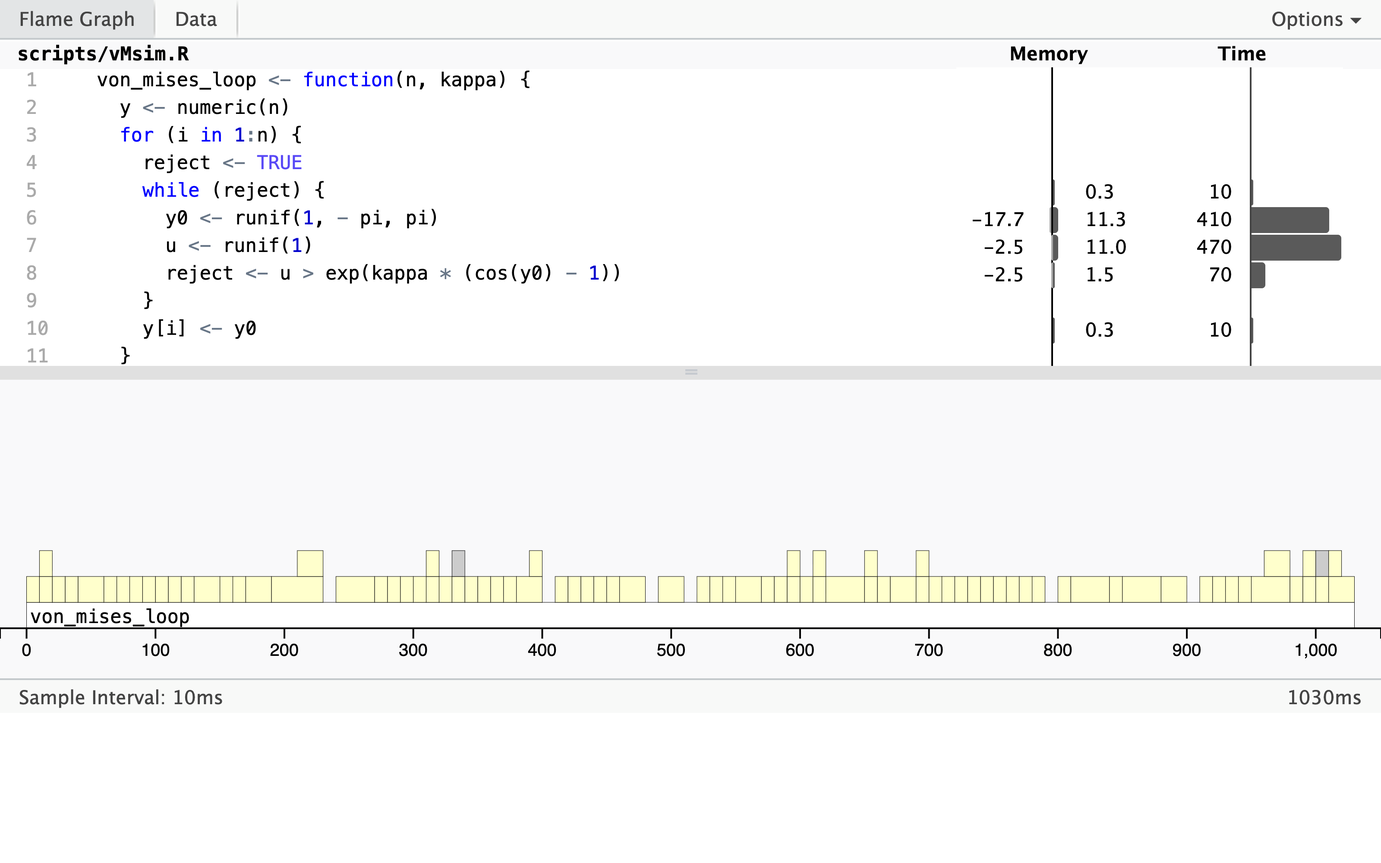
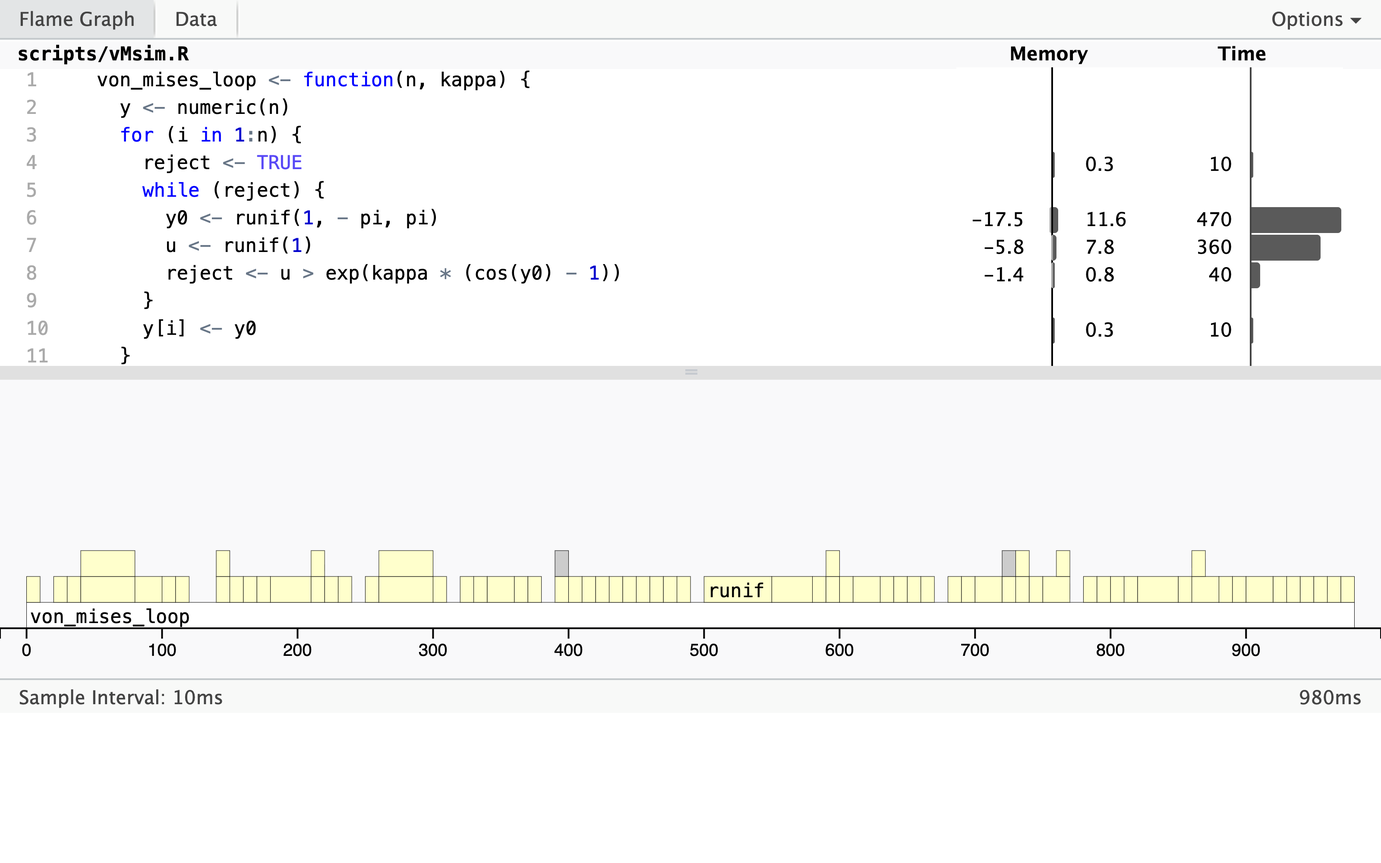
Rerun of profiling results for von Mises

diff --git a/figures/vMsim_profile.html b/figures/vMsim_profile.html
@@ -4629,9 +4629,9 @@ contains:[{begin:/\\./}]}]}}})();hljs.registerLanguage("r",e)})();</script>
 </head>
 <body style="background-color: white;">
 <div id="htmlwidget_container">
-  <div class="profvis html-widget html-fill-item" id="htmlwidget-f214a7429993f2db4890" style="width:960px;height:500px;"></div>
+  <div class="profvis html-widget html-fill-item" id="htmlwidget-50484b593182fa892323" style="width:960px;height:500px;"></div>
 </div>
-<script type="application/json" data-for="htmlwidget-f214a7429993f2db4890">{"x":{"message":{"prof":{"time":[1,1,2,2,2,3,3,4,4,5,5,6,6,7,7,8,8,9,9,10,10,11,11,12,12,13,13,14,14,15,15,16,16,17,17,18,18,19,19,20,20,21,21,22,22,22,23,23,23,24,25,25,26,27,27,28,28,29,29,30,30,31,31,32,32,32,33,33,34,34,34,35,35,36,36,37,37,38,38,39,39,40,40,40,41,42,42,43,43,44,44,45,45,46,46,47,47,48,48,49,50,50,51,51,52,53,53,54,54,55,55,56,56,57,57,58,58,59,59,60,60,60,61,61,62,62,62,63,63,64,64,65,65,66,66,66,67,67,68,68,69,69,70,70,70,71,71,72,72,73,73,74,74,75,75,76,76,77,77,78,78,79,79,80,81,81,82,82,83,83,84,84,85,85,86,86,87,87,88,88,89,89,90,90,91,92,92,93,93,94,94,95,95,96,96,97,97,97,98,98,98,99,99,100,100,100,101,101,101,102,102,102,103,103],"depth":[2,1,3,2,1,2,1,2,1,2,1,2,1,2,1,2,1,2,1,2,1,2,1,2,1,2,1,2,1,2,1,2,1,2,1,2,1,2,1,2,1,2,1,3,2,1,3,2,1,1,2,1,1,2,1,2,1,2,1,2,1,2,1,3,2,1,2,1,3,2,1,2,1,2,1,2,1,2,1,2,1,3,2,1,1,2,1,2,1,2,1,2,1,2,1,2,1,2,1,1,2,1,2,1,1,2,1,2,1,2,1,2,1,2,1,2,1,2,1,3,2,1,2,1,3,2,1,2,1,2,1,2,1,3,2,1,2,1,2,1,2,1,3,2,1,2,1,2,1,2,1,2,1,2,1,2,1,2,1,2,1,2,1,1,2,1,2,1,2,1,2,1,2,1,2,1,2,1,2,1,2,1,2,1,1,2,1,2,1,2,1,2,1,2,1,3,2,1,3,2,1,2,1,3,2,1,3,2,1,3,2,1,2,1],"label":["y0 <- runif(1, - pi, pi)","von_mises_loop","y0 <- runif(1, - pi, pi)","runif","von_mises_loop","u <- runif(1)","von_mises_loop","runif","von_mises_loop","u <- runif(1)","von_mises_loop","u <- runif(1)","von_mises_loop","runif","von_mises_loop","u <- runif(1)","von_mises_loop","runif","von_mises_loop","runif","von_mises_loop","reject <- u > exp(kappa * (cos(y0) - 1))","von_mises_loop","runif","von_mises_loop","runif","von_mises_loop","u <- runif(1)","von_mises_loop","u <- runif(1)","von_mises_loop","runif","von_mises_loop","u <- runif(1)","von_mises_loop","y0 <- runif(1, - pi, pi)","von_mises_loop","y0 <- runif(1, - pi, pi)","von_mises_loop","runif","von_mises_loop","runif","von_mises_loop","y0 <- runif(1, - pi, pi)","runif","von_mises_loop","y0 <- runif(1, - pi, pi)","runif","von_mises_loop","von_mises_loop","runif","von_mises_loop","von_mises_loop","runif","von_mises_loop","u <- runif(1)","von_mises_loop","reject <- u > exp(kappa * (cos(y0) - 1))","von_mises_loop","u <- runif(1)","von_mises_loop","reject <- u > exp(kappa * (cos(y0) - 1))","von_mises_loop","y0 <- runif(1, - pi, pi)","runif","von_mises_loop","runif","von_mises_loop","<GC>","y0 <- runif(1, - pi, pi)","von_mises_loop","runif","von_mises_loop","runif","von_mises_loop","u <- runif(1)","von_mises_loop","runif","von_mises_loop","runif","von_mises_loop","y0 <- runif(1, - pi, pi)","runif","von_mises_loop","von_mises_loop","runif","von_mises_loop","while (reject) {","von_mises_loop","runif","von_mises_loop","reject <- u > exp(kappa * (cos(y0) - 1))","von_mises_loop","runif","von_mises_loop","runif","von_mises_loop","runif","von_mises_loop","von_mises_loop","runif","von_mises_loop","runif","von_mises_loop","von_mises_loop","y0 <- runif(1, - pi, pi)","von_mises_loop","runif","von_mises_loop","u <- runif(1)","von_mises_loop","y0 <- runif(1, - pi, pi)","von_mises_loop","y0 <- runif(1, - pi, pi)","von_mises_loop","reject <- u > exp(kappa * (cos(y0) - 1))","von_mises_loop","runif","von_mises_loop","y0 <- runif(1, - pi, pi)","runif","von_mises_loop","u <- runif(1)","von_mises_loop","y0 <- runif(1, - pi, pi)","runif","von_mises_loop","runif","von_mises_loop","runif","von_mises_loop","runif","von_mises_loop","y0 <- runif(1, - pi, pi)","runif","von_mises_loop","y0 <- runif(1, - pi, pi)","von_mises_loop","runif","von_mises_loop","runif","von_mises_loop","y0 <- runif(1, - pi, pi)","runif","von_mises_loop","y0 <- runif(1, - pi, pi)","von_mises_loop","reject <- u > exp(kappa * (cos(y0) - 1))","von_mises_loop","runif","von_mises_loop","u <- runif(1)","von_mises_loop","runif","von_mises_loop","y0 <- runif(1, - pi, pi)","von_mises_loop","runif","von_mises_loop","runif","von_mises_loop","y0 <- runif(1, - pi, pi)","von_mises_loop","von_mises_loop","u <- runif(1)","von_mises_loop","runif","von_mises_loop","runif","von_mises_loop","runif","von_mises_loop","u <- runif(1)","von_mises_loop","runif","von_mises_loop","runif","von_mises_loop","runif","von_mises_loop","runif","von_mises_loop","runif","von_mises_loop","von_mises_loop","y0 <- runif(1, - pi, pi)","von_mises_loop","y[i] <- y0","von_mises_loop","y0 <- runif(1, - pi, pi)","von_mises_loop","reject <- u > exp(kappa * (cos(y0) - 1))","von_mises_loop","runif","von_mises_loop","y0 <- runif(1, - pi, pi)","runif","von_mises_loop","y0 <- runif(1, - pi, pi)","runif","von_mises_loop","u <- runif(1)","von_mises_loop","y0 <- runif(1, - pi, pi)","runif","von_mises_loop","<GC>","y0 <- runif(1, - pi, pi)","von_mises_loop","y0 <- runif(1, - pi, pi)","runif","von_mises_loop","runif","von_mises_loop"],"filenum":[1,null,1,1,null,1,null,1,null,1,null,1,null,1,null,1,null,1,null,1,null,1,null,1,null,1,null,1,null,1,null,1,null,1,null,1,null,1,null,1,null,1,null,1,1,null,1,1,null,null,1,null,null,1,null,1,null,1,null,1,null,1,null,1,1,null,1,null,null,1,null,1,null,1,null,1,null,1,null,1,null,1,1,null,null,1,null,1,null,1,null,1,null,1,null,1,null,1,null,null,1,null,1,null,null,1,null,1,null,1,null,1,null,1,null,1,null,1,null,1,1,null,1,null,1,1,null,1,null,1,null,1,null,1,1,null,1,null,1,null,1,null,1,1,null,1,null,1,null,1,null,1,null,1,null,1,null,1,null,1,null,1,null,null,1,null,1,null,1,null,1,null,1,null,1,null,1,null,1,null,1,null,1,null,null,1,null,1,null,1,null,1,null,1,null,1,1,null,1,1,null,1,null,1,1,null,null,1,null,1,1,null,1,null],"linenum":[6,null,6,6,null,7,null,6,null,7,null,7,null,7,null,7,null,7,null,6,null,8,null,6,null,7,null,7,null,7,null,7,null,7,null,6,null,6,null,6,null,6,null,6,6,null,6,6,null,null,7,null,null,7,null,7,null,8,null,7,null,8,null,6,6,null,7,null,null,6,null,6,null,7,null,7,null,7,null,6,null,6,6,null,null,7,null,5,null,7,null,8,null,7,null,6,null,6,null,null,7,null,7,null,null,6,null,7,null,7,null,6,null,6,null,8,null,7,null,6,6,null,7,null,6,6,null,7,null,7,null,7,null,6,6,null,6,null,7,null,7,null,6,6,null,6,null,8,null,7,null,7,null,7,null,6,null,7,null,6,null,6,null,null,7,null,7,null,7,null,7,null,7,null,7,null,7,null,7,null,6,null,6,null,null,6,null,10,null,6,null,8,null,6,null,6,6,null,6,6,null,7,null,6,6,null,null,6,null,6,6,null,6,null],"memalloc":[55.92893218994141,55.92893218994141,56.18175506591797,56.18175506591797,56.18175506591797,56.43573760986328,56.43573760986328,56.68950653076172,56.68950653076172,56.9417724609375,56.9417724609375,57.18967437744141,57.18967437744141,57.41778564453125,57.41778564453125,57.65174102783203,57.65174102783203,57.88446807861328,57.88446807861328,58.12354278564453,58.12354278564453,58.35741424560547,58.35741424560547,55.84796905517578,55.84796905517578,56.10325622558594,56.10325622558594,56.35488891601562,56.35488891601562,56.61112213134766,56.61112213134766,56.86063385009766,56.86063385009766,57.10964965820312,57.10964965820312,57.35007476806641,57.35007476806641,57.59177398681641,57.59177398681641,57.82823181152344,57.82823181152344,58.06496429443359,58.06496429443359,58.30950164794922,58.30950164794922,58.30950164794922,55.66587066650391,55.66587066650391,55.66587066650391,55.91329193115234,56.15999603271484,56.15999603271484,56.41574859619141,56.67202758789062,56.67202758789062,56.92285919189453,56.92285919189453,57.17674255371094,57.17674255371094,57.43335723876953,57.43335723876953,57.67488098144531,57.67488098144531,57.91216278076172,57.91216278076172,57.91216278076172,58.15019989013672,58.15019989013672,58.35326385498047,58.35326385498047,58.35326385498047,55.87579345703125,55.87579345703125,56.11637115478516,56.11637115478516,56.28899383544922,56.28899383544922,56.41146850585938,56.41146850585938,56.51240539550781,56.51240539550781,56.72984313964844,56.72984313964844,56.72984313964844,56.97866058349609,57.22353363037109,57.22353363037109,57.47714233398438,57.47714233398438,57.73009490966797,57.73009490966797,57.96866607666016,57.96866607666016,58.19445037841797,58.19445037841797,55.68437194824219,55.68437194824219,55.93550872802734,55.93550872802734,56.19658660888672,56.4505615234375,56.4505615234375,56.68621063232422,56.68621063232422,56.93736267089844,57.19161224365234,57.19161224365234,57.44923400878906,57.44923400878906,57.70349884033203,57.70349884033203,57.9564208984375,57.9564208984375,58.20771026611328,58.20771026611328,55.71805572509766,55.71805572509766,55.97996520996094,55.97996520996094,56.24430084228516,56.24430084228516,56.24430084228516,56.50501251220703,56.50501251220703,56.76383972167969,56.76383972167969,56.76383972167969,57.02410125732422,57.02410125732422,57.26796722412109,57.26796722412109,57.52374267578125,57.52374267578125,57.77620697021484,57.77620697021484,57.77620697021484,58.03141021728516,58.03141021728516,58.28622436523438,58.28622436523438,55.80707550048828,55.80707550048828,56.05315399169922,56.05315399169922,56.05315399169922,56.28334045410156,56.28334045410156,56.53261566162109,56.53261566162109,56.79003143310547,56.79003143310547,57.03745269775391,57.03745269775391,57.28529357910156,57.28529357910156,57.53253173828125,57.53253173828125,57.76683044433594,57.76683044433594,58.01171112060547,58.01171112060547,58.26035308837891,58.26035308837891,55.76367950439453,56.01437377929688,56.01437377929688,56.26646423339844,56.26646423339844,56.518310546875,56.518310546875,56.76803588867188,56.76803588867188,57.02550506591797,57.02550506591797,57.27608489990234,57.27608489990234,57.53399658203125,57.53399658203125,57.78948974609375,57.78948974609375,58.03961944580078,58.03961944580078,58.29756927490234,58.29756927490234,55.80910491943359,56.0665283203125,56.0665283203125,56.32161712646484,56.32161712646484,56.57769012451172,56.57769012451172,56.82847595214844,56.82847595214844,57.08695220947266,57.08695220947266,57.33993530273438,57.33993530273438,57.33993530273438,57.5987548828125,57.5987548828125,57.5987548828125,57.85129547119141,57.85129547119141,58.10536193847656,58.10536193847656,58.10536193847656,58.35330963134766,58.35330963134766,58.35330963134766,55.87691497802734,55.87691497802734,55.87691497802734,56.13877868652344,56.13877868652344],"meminc":[0,0,0.2528228759765625,0,0,0.2539825439453125,0,0.2537689208984375,0,0.2522659301757812,0,0.2479019165039062,0,0.2281112670898438,0,0.2339553833007812,0,0.23272705078125,0,0.23907470703125,0,0.2338714599609375,0,-2.509445190429688,0,0.2552871704101562,0,0.2516326904296875,0,0.2562332153320312,0,0.24951171875,0,0.2490158081054688,0,0.2404251098632812,0,0.24169921875,0,0.2364578247070312,0,0.2367324829101562,0,0.244537353515625,0,0,-2.643630981445312,0,0,0.2474212646484375,0.2467041015625,0,0.2557525634765625,0.2562789916992188,0,0.2508316040039062,0,0.2538833618164062,0,0.2566146850585938,0,0.2415237426757812,0,0.2372817993164062,0,0,0.238037109375,0,0.20306396484375,0,0,-2.477470397949219,0,0.2405776977539062,0,0.1726226806640625,0,0.1224746704101562,0,0.1009368896484375,0,0.217437744140625,0,0,0.2488174438476562,0.244873046875,0,0.2536087036132812,0,0.2529525756835938,0,0.2385711669921875,0,0.2257843017578125,0,-2.510078430175781,0,0.2511367797851562,0,0.261077880859375,0.2539749145507812,0,0.2356491088867188,0,0.2511520385742188,0.2542495727539062,0,0.2576217651367188,0,0.2542648315429688,0,0.2529220581054688,0,0.2512893676757812,0,-2.489654541015625,0,0.2619094848632812,0,0.2643356323242188,0,0,0.260711669921875,0,0.2588272094726562,0,0,0.2602615356445312,0,0.243865966796875,0,0.2557754516601562,0,0.2524642944335938,0,0,0.2552032470703125,0,0.2548141479492188,0,-2.479148864746094,0,0.2460784912109375,0,0,0.2301864624023438,0,0.2492752075195312,0,0.257415771484375,0,0.2474212646484375,0,0.2478408813476562,0,0.2472381591796875,0,0.2342987060546875,0,0.2448806762695312,0,0.2486419677734375,0,-2.496673583984375,0.2506942749023438,0,0.2520904541015625,0,0.2518463134765625,0,0.249725341796875,0,0.2574691772460938,0,0.250579833984375,0,0.2579116821289062,0,0.2554931640625,0,0.2501296997070312,0,0.2579498291015625,0,-2.48846435546875,0.2574234008789062,0,0.2550888061523438,0,0.256072998046875,0,0.2507858276367188,0,0.2584762573242188,0,0.2529830932617188,0,0,0.258819580078125,0,0,0.2525405883789062,0,0.2540664672851562,0,0,0.2479476928710938,0,0,-2.476394653320312,0,0,0.2618637084960938,0],"filename":["scripts/vMsim.R",null,"scripts/vMsim.R","scripts/vMsim.R",null,"scripts/vMsim.R",null,"scripts/vMsim.R",null,"scripts/vMsim.R",null,"scripts/vMsim.R",null,"scripts/vMsim.R",null,"scripts/vMsim.R",null,"scripts/vMsim.R",null,"scripts/vMsim.R",null,"scripts/vMsim.R",null,"scripts/vMsim.R",null,"scripts/vMsim.R",null,"scripts/vMsim.R",null,"scripts/vMsim.R",null,"scripts/vMsim.R",null,"scripts/vMsim.R",null,"scripts/vMsim.R",null,"scripts/vMsim.R",null,"scripts/vMsim.R",null,"scripts/vMsim.R",null,"scripts/vMsim.R","scripts/vMsim.R",null,"scripts/vMsim.R","scripts/vMsim.R",null,null,"scripts/vMsim.R",null,null,"scripts/vMsim.R",null,"scripts/vMsim.R",null,"scripts/vMsim.R",null,"scripts/vMsim.R",null,"scripts/vMsim.R",null,"scripts/vMsim.R","scripts/vMsim.R",null,"scripts/vMsim.R",null,null,"scripts/vMsim.R",null,"scripts/vMsim.R",null,"scripts/vMsim.R",null,"scripts/vMsim.R",null,"scripts/vMsim.R",null,"scripts/vMsim.R",null,"scripts/vMsim.R","scripts/vMsim.R",null,null,"scripts/vMsim.R",null,"scripts/vMsim.R",null,"scripts/vMsim.R",null,"scripts/vMsim.R",null,"scripts/vMsim.R",null,"scripts/vMsim.R",null,"scripts/vMsim.R",null,null,"scripts/vMsim.R",null,"scripts/vMsim.R",null,null,"scripts/vMsim.R",null,"scripts/vMsim.R",null,"scripts/vMsim.R",null,"scripts/vMsim.R",null,"scripts/vMsim.R",null,"scripts/vMsim.R",null,"scripts/vMsim.R",null,"scripts/vMsim.R","scripts/vMsim.R",null,"scripts/vMsim.R",null,"scripts/vMsim.R","scripts/vMsim.R",null,"scripts/vMsim.R",null,"scripts/vMsim.R",null,"scripts/vMsim.R",null,"scripts/vMsim.R","scripts/vMsim.R",null,"scripts/vMsim.R",null,"scripts/vMsim.R",null,"scripts/vMsim.R",null,"scripts/vMsim.R","scripts/vMsim.R",null,"scripts/vMsim.R",null,"scripts/vMsim.R",null,"scripts/vMsim.R",null,"scripts/vMsim.R",null,"scripts/vMsim.R",null,"scripts/vMsim.R",null,"scripts/vMsim.R",null,"scripts/vMsim.R",null,"scripts/vMsim.R",null,null,"scripts/vMsim.R",null,"scripts/vMsim.R",null,"scripts/vMsim.R",null,"scripts/vMsim.R",null,"scripts/vMsim.R",null,"scripts/vMsim.R",null,"scripts/vMsim.R",null,"scripts/vMsim.R",null,"scripts/vMsim.R",null,"scripts/vMsim.R",null,null,"scripts/vMsim.R",null,"scripts/vMsim.R",null,"scripts/vMsim.R",null,"scripts/vMsim.R",null,"scripts/vMsim.R",null,"scripts/vMsim.R","scripts/vMsim.R",null,"scripts/vMsim.R","scripts/vMsim.R",null,"scripts/vMsim.R",null,"scripts/vMsim.R","scripts/vMsim.R",null,null,"scripts/vMsim.R",null,"scripts/vMsim.R","scripts/vMsim.R",null,"scripts/vMsim.R",null]},"interval":10,"files":[{"filename":"scripts/vMsim.R","content":"von_mises_loop <- function(n, kappa) {\n  y <- numeric(n)\n  for (i in 1:n) {\n    reject <- TRUE\n    while (reject) {\n      y0 <- runif(1, - pi, pi)\n      u <- runif(1)\n      reject <- u > exp(kappa * (cos(y0) - 1))\n    }\n    y[i] <- y0\n  }\n  y\n}","normpath":"/Users/xqz683/sync/Books/CSwR/scripts/vMsim.R"}],"prof_output":"/var/folders/66/tltr1k410b1f6l8k6kdbq11w0000gn/T//RtmphVgOZZ/file1ac55489b386.prof","highlight":{"output":["^output\\$"],"gc":["^<GC>$"],"stacktrace":["^\\.\\.stacktraceo(n|ff)\\.\\.$"]},"split":"h"}},"evals":[],"jsHooks":[]}</script>
-<script type="application/htmlwidget-sizing" data-for="htmlwidget-f214a7429993f2db4890">{"viewer":{"width":450,"height":350,"padding":0,"fill":true},"browser":{"width":960,"height":500,"padding":0,"fill":true}}</script>
+<script type="application/json" data-for="htmlwidget-50484b593182fa892323">{"x":{"message":{"prof":{"time":[1,1,2,3,3,4,4,5,5,5,6,6,7,7,8,8,8,9,9,10,10,11,11,12,12,13,14,15,15,15,16,16,17,17,18,18,19,19,20,20,21,21,22,22,22,23,23,24,24,25,26,26,27,27,27,28,28,29,29,29,30,30,30,31,31,32,33,33,34,34,35,35,36,36,37,37,38,38,39,40,40,40,41,41,42,42,43,43,44,44,45,45,46,46,47,47,48,48,49,49,50,51,51,52,52,53,54,54,55,55,56,56,57,57,58,58,59,59,60,60,60,61,61,62,62,63,63,64,64,65,65,66,66,67,67,68,69,69,70,70,71,71,72,72,73,73,73,74,74,74,75,75,76,76,77,77,77,78,79,79,80,80,81,81,82,82,83,83,84,85,85,86,86,87,87,87,88,88,89,89,90,90,91,91,92,92,93,93,94,94,95,95,96,96,97,97,98,98],"depth":[2,1,1,2,1,2,1,3,2,1,2,1,2,1,3,2,1,2,1,2,1,2,1,2,1,1,1,3,2,1,2,1,2,1,2,1,2,1,2,1,2,1,3,2,1,2,1,2,1,1,2,1,3,2,1,2,1,3,2,1,3,2,1,2,1,1,2,1,2,1,2,1,2,1,2,1,2,1,1,3,2,1,2,1,2,1,2,1,2,1,2,1,2,1,2,1,2,1,2,1,1,2,1,2,1,1,2,1,2,1,2,1,2,1,2,1,2,1,3,2,1,2,1,2,1,2,1,2,1,2,1,2,1,2,1,1,2,1,2,1,2,1,2,1,3,2,1,3,2,1,2,1,2,1,3,2,1,1,2,1,2,1,2,1,2,1,2,1,1,2,1,2,1,3,2,1,2,1,2,1,2,1,2,1,2,1,2,1,2,1,2,1,2,1,2,1,2,1],"label":["u <- runif(1)","von_mises_loop","von_mises_loop","runif","von_mises_loop","y0 <- runif(1, - pi, pi)","von_mises_loop","y0 <- runif(1, - pi, pi)","runif","von_mises_loop","runif","von_mises_loop","runif","von_mises_loop","y0 <- runif(1, - pi, pi)","runif","von_mises_loop","y0 <- runif(1, - pi, pi)","von_mises_loop","y0 <- runif(1, - pi, pi)","von_mises_loop","runif","von_mises_loop","u <- runif(1)","von_mises_loop","von_mises_loop","von_mises_loop","y0 <- runif(1, - pi, pi)","runif","von_mises_loop","y[i] <- y0","von_mises_loop","runif","von_mises_loop","y0 <- runif(1, - pi, pi)","von_mises_loop","runif","von_mises_loop","runif","von_mises_loop","runif","von_mises_loop","y0 <- runif(1, - pi, pi)","runif","von_mises_loop","runif","von_mises_loop","runif","von_mises_loop","von_mises_loop","reject <- u > exp(kappa * (cos(y0) - 1))","von_mises_loop","y0 <- runif(1, - pi, pi)","runif","von_mises_loop","runif","von_mises_loop","y0 <- runif(1, - pi, pi)","runif","von_mises_loop","y0 <- runif(1, - pi, pi)","runif","von_mises_loop","u <- runif(1)","von_mises_loop","von_mises_loop","runif","von_mises_loop","reject <- u > exp(kappa * (cos(y0) - 1))","von_mises_loop","runif","von_mises_loop","runif","von_mises_loop","y0 <- runif(1, - pi, pi)","von_mises_loop","runif","von_mises_loop","von_mises_loop","<GC>","y0 <- runif(1, - pi, pi)","von_mises_loop","runif","von_mises_loop","runif","von_mises_loop","reject <- u > exp(kappa * (cos(y0) - 1))","von_mises_loop","runif","von_mises_loop","reject <- u > exp(kappa * (cos(y0) - 1))","von_mises_loop","runif","von_mises_loop","y0 <- runif(1, - pi, pi)","von_mises_loop","runif","von_mises_loop","runif","von_mises_loop","von_mises_loop","runif","von_mises_loop","runif","von_mises_loop","von_mises_loop","runif","von_mises_loop","runif","von_mises_loop","runif","von_mises_loop","runif","von_mises_loop","runif","von_mises_loop","u <- runif(1)","von_mises_loop","y0 <- runif(1, - pi, pi)","runif","von_mises_loop","reject <- TRUE","von_mises_loop","runif","von_mises_loop","runif","von_mises_loop","y0 <- runif(1, - pi, pi)","von_mises_loop","runif","von_mises_loop","runif","von_mises_loop","y0 <- runif(1, - pi, pi)","von_mises_loop","von_mises_loop","runif","von_mises_loop","u <- runif(1)","von_mises_loop","y0 <- runif(1, - pi, pi)","von_mises_loop","y0 <- runif(1, - pi, pi)","von_mises_loop","<GC>","u <- runif(1)","von_mises_loop","y0 <- runif(1, - pi, pi)","runif","von_mises_loop","u <- runif(1)","von_mises_loop","runif","von_mises_loop","y0 <- runif(1, - pi, pi)","runif","von_mises_loop","von_mises_loop","y0 <- runif(1, - pi, pi)","von_mises_loop","runif","von_mises_loop","u <- runif(1)","von_mises_loop","runif","von_mises_loop","runif","von_mises_loop","von_mises_loop","runif","von_mises_loop","u <- runif(1)","von_mises_loop","y0 <- runif(1, - pi, pi)","runif","von_mises_loop","runif","von_mises_loop","u <- runif(1)","von_mises_loop","runif","von_mises_loop","y0 <- runif(1, - pi, pi)","von_mises_loop","y0 <- runif(1, - pi, pi)","von_mises_loop","runif","von_mises_loop","runif","von_mises_loop","runif","von_mises_loop","runif","von_mises_loop","u <- runif(1)","von_mises_loop","y0 <- runif(1, - pi, pi)","von_mises_loop"],"filenum":[1,null,null,1,null,1,null,1,1,null,1,null,1,null,1,1,null,1,null,1,null,1,null,1,null,null,null,1,1,null,1,null,1,null,1,null,1,null,1,null,1,null,1,1,null,1,null,1,null,null,1,null,1,1,null,1,null,1,1,null,1,1,null,1,null,null,1,null,1,null,1,null,1,null,1,null,1,null,null,null,1,null,1,null,1,null,1,null,1,null,1,null,1,null,1,null,1,null,1,null,null,1,null,1,null,null,1,null,1,null,1,null,1,null,1,null,1,null,1,1,null,1,null,1,null,1,null,1,null,1,null,1,null,1,null,null,1,null,1,null,1,null,1,null,null,1,null,1,1,null,1,null,1,null,1,1,null,null,1,null,1,null,1,null,1,null,1,null,null,1,null,1,null,1,1,null,1,null,1,null,1,null,1,null,1,null,1,null,1,null,1,null,1,null,1,null,1,null],"linenum":[7,null,null,6,null,6,null,6,6,null,6,null,6,null,6,6,null,6,null,6,null,7,null,7,null,null,null,6,6,null,10,null,6,null,6,null,7,null,7,null,7,null,6,6,null,7,null,6,null,null,8,null,6,6,null,6,null,6,6,null,6,6,null,7,null,null,7,null,8,null,7,null,7,null,6,null,7,null,null,null,6,null,6,null,7,null,8,null,6,null,8,null,7,null,6,null,7,null,6,null,null,7,null,7,null,null,7,null,7,null,6,null,6,null,6,null,7,null,6,6,null,4,null,7,null,7,null,6,null,6,null,7,null,6,null,null,6,null,7,null,6,null,6,null,null,7,null,6,6,null,7,null,6,null,6,6,null,null,6,null,7,null,7,null,7,null,6,null,null,6,null,7,null,6,6,null,6,null,7,null,7,null,6,null,6,null,7,null,6,null,7,null,6,null,7,null,6,null],"memalloc":[54.90489959716797,54.90489959716797,55.16305541992188,55.40532684326172,55.40532684326172,55.66658020019531,55.66658020019531,55.91919708251953,55.91919708251953,55.91919708251953,56.18013763427734,56.18013763427734,54.64054870605469,54.64054870605469,54.90312957763672,54.90312957763672,54.90312957763672,55.170166015625,55.170166015625,55.41584777832031,55.41584777832031,55.66891479492188,55.66891479492188,55.91983795166016,55.91983795166016,56.17213439941406,54.72088623046875,54.98504638671875,54.98504638671875,54.98504638671875,55.24759674072266,55.24759674072266,55.51123809814453,55.51123809814453,55.77253723144531,55.77253723144531,56.03483581542969,56.03483581542969,56.29372406005859,56.29372406005859,54.84914398193359,54.84914398193359,55.10176086425781,55.10176086425781,55.10176086425781,55.33984375,55.33984375,55.58831024169922,55.58831024169922,55.83426666259766,56.09400939941406,56.09400939941406,54.63723754882812,54.63723754882812,54.63723754882812,54.90040588378906,54.90040588378906,55.16432952880859,55.16432952880859,55.16432952880859,55.42942047119141,55.42942047119141,55.42942047119141,55.69182586669922,55.69182586669922,55.95506286621094,56.21920013427734,56.21920013427734,54.77525329589844,54.77525329589844,55.03984069824219,55.03984069824219,55.30039978027344,55.30039978027344,55.56416320800781,55.56416320800781,55.826416015625,55.826416015625,56.07479095458984,56.29386138916016,56.29386138916016,56.29386138916016,54.83627319335938,54.83627319335938,55.09708404541016,55.09708404541016,55.35909271240234,55.35909271240234,55.61927795410156,55.61927795410156,55.84807586669922,55.84807586669922,56.09908294677734,56.09908294677734,54.64531707763672,54.64531707763672,54.91067504882812,54.91067504882812,55.17460632324219,55.17460632324219,55.43715667724609,55.69879150390625,55.69879150390625,55.95984649658203,55.95984649658203,56.22441101074219,54.77813720703125,54.77813720703125,55.04058837890625,55.04058837890625,55.30410766601562,55.30410766601562,55.56848907470703,55.56848907470703,55.82636260986328,55.82636260986328,56.09120178222656,56.09120178222656,54.64379119873047,54.64379119873047,54.64379119873047,54.90833282470703,54.90833282470703,55.17388153076172,55.17388153076172,55.43795776367188,55.43795776367188,55.67545318603516,55.67545318603516,55.90715026855469,55.90715026855469,56.16809844970703,56.16809844970703,54.72020721435547,54.72020721435547,54.98318481445312,55.24657440185547,55.24657440185547,55.50929260253906,55.50929260253906,55.77063751220703,55.77063751220703,56.03433227539062,56.03433227539062,56.29389953613281,56.29389953613281,56.29389953613281,54.85298156738281,54.85298156738281,54.85298156738281,55.11440277099609,55.11440277099609,55.37834930419922,55.37834930419922,55.64056396484375,55.64056396484375,55.64056396484375,55.90377807617188,56.16724395751953,56.16724395751953,54.72557067871094,54.72557067871094,54.98674011230469,54.98674011230469,55.25096130371094,55.25096130371094,55.51214599609375,55.51214599609375,55.75414276123047,56.01699066162109,56.01699066162109,56.28214263916016,56.28214263916016,54.84380340576172,54.84380340576172,54.84380340576172,55.09593963623047,55.09593963623047,55.35671997070312,55.35671997070312,55.62071990966797,55.62071990966797,55.88233184814453,55.88233184814453,56.14236450195312,56.14236450195312,54.70164489746094,54.70164489746094,54.96350860595703,54.96350860595703,55.22637939453125,55.22637939453125,55.48396301269531,55.48396301269531,55.74664306640625,55.74664306640625,56.00830841064453,56.00830841064453],"meminc":[0,0,0.2581558227539062,0.2422714233398438,0,0.2612533569335938,0,0.2526168823242188,0,0,0.2609405517578125,0,-1.539588928222656,0,0.2625808715820312,0,0,0.2670364379882812,0,0.2456817626953125,0,0.2530670166015625,0,0.2509231567382812,0,0.2522964477539062,-1.451248168945312,0.26416015625,0,0,0.2625503540039062,0,0.263641357421875,0,0.2612991333007812,0,0.262298583984375,0,0.2588882446289062,0,-1.444580078125,0,0.2526168823242188,0,0,0.2380828857421875,0,0.2484664916992188,0,0.2459564208984375,0.2597427368164062,0,-1.456771850585938,0,0,0.2631683349609375,0,0.2639236450195312,0,0,0.2650909423828125,0,0,0.2624053955078125,0,0.2632369995117188,0.2641372680664062,0,-1.443946838378906,0,0.26458740234375,0,0.26055908203125,0,0.263763427734375,0,0.2622528076171875,0,0.2483749389648438,0.2190704345703125,0,0,-1.457588195800781,0,0.2608108520507812,0,0.2620086669921875,0,0.2601852416992188,0,0.2287979125976562,0,0.251007080078125,0,-1.453765869140625,0,0.2653579711914062,0,0.2639312744140625,0,0.2625503540039062,0.2616348266601562,0,0.2610549926757812,0,0.2645645141601562,-1.446273803710938,0,0.262451171875,0,0.263519287109375,0,0.2643814086914062,0,0.25787353515625,0,0.2648391723632812,0,-1.447410583496094,0,0,0.2645416259765625,0,0.2655487060546875,0,0.2640762329101562,0,0.2374954223632812,0,0.2316970825195312,0,0.2609481811523438,0,-1.447891235351562,0,0.2629776000976562,0.2633895874023438,0,0.2627182006835938,0,0.2613449096679688,0,0.2636947631835938,0,0.2595672607421875,0,0,-1.44091796875,0,0,0.2614212036132812,0,0.263946533203125,0,0.2622146606445312,0,0,0.263214111328125,0.2634658813476562,0,-1.441673278808594,0,0.26116943359375,0,0.26422119140625,0,0.2611846923828125,0,0.2419967651367188,0.262847900390625,0,0.2651519775390625,0,-1.438339233398438,0,0,0.25213623046875,0,0.2607803344726562,0,0.2639999389648438,0,0.2616119384765625,0,0.2600326538085938,0,-1.440719604492188,0,0.2618637084960938,0,0.2628707885742188,0,0.2575836181640625,0,0.2626800537109375,0,0.2616653442382812,0],"filename":["scripts/vMsim.R",null,null,"scripts/vMsim.R",null,"scripts/vMsim.R",null,"scripts/vMsim.R","scripts/vMsim.R",null,"scripts/vMsim.R",null,"scripts/vMsim.R",null,"scripts/vMsim.R","scripts/vMsim.R",null,"scripts/vMsim.R",null,"scripts/vMsim.R",null,"scripts/vMsim.R",null,"scripts/vMsim.R",null,null,null,"scripts/vMsim.R","scripts/vMsim.R",null,"scripts/vMsim.R",null,"scripts/vMsim.R",null,"scripts/vMsim.R",null,"scripts/vMsim.R",null,"scripts/vMsim.R",null,"scripts/vMsim.R",null,"scripts/vMsim.R","scripts/vMsim.R",null,"scripts/vMsim.R",null,"scripts/vMsim.R",null,null,"scripts/vMsim.R",null,"scripts/vMsim.R","scripts/vMsim.R",null,"scripts/vMsim.R",null,"scripts/vMsim.R","scripts/vMsim.R",null,"scripts/vMsim.R","scripts/vMsim.R",null,"scripts/vMsim.R",null,null,"scripts/vMsim.R",null,"scripts/vMsim.R",null,"scripts/vMsim.R",null,"scripts/vMsim.R",null,"scripts/vMsim.R",null,"scripts/vMsim.R",null,null,null,"scripts/vMsim.R",null,"scripts/vMsim.R",null,"scripts/vMsim.R",null,"scripts/vMsim.R",null,"scripts/vMsim.R",null,"scripts/vMsim.R",null,"scripts/vMsim.R",null,"scripts/vMsim.R",null,"scripts/vMsim.R",null,"scripts/vMsim.R",null,null,"scripts/vMsim.R",null,"scripts/vMsim.R",null,null,"scripts/vMsim.R",null,"scripts/vMsim.R",null,"scripts/vMsim.R",null,"scripts/vMsim.R",null,"scripts/vMsim.R",null,"scripts/vMsim.R",null,"scripts/vMsim.R","scripts/vMsim.R",null,"scripts/vMsim.R",null,"scripts/vMsim.R",null,"scripts/vMsim.R",null,"scripts/vMsim.R",null,"scripts/vMsim.R",null,"scripts/vMsim.R",null,"scripts/vMsim.R",null,null,"scripts/vMsim.R",null,"scripts/vMsim.R",null,"scripts/vMsim.R",null,"scripts/vMsim.R",null,null,"scripts/vMsim.R",null,"scripts/vMsim.R","scripts/vMsim.R",null,"scripts/vMsim.R",null,"scripts/vMsim.R",null,"scripts/vMsim.R","scripts/vMsim.R",null,null,"scripts/vMsim.R",null,"scripts/vMsim.R",null,"scripts/vMsim.R",null,"scripts/vMsim.R",null,"scripts/vMsim.R",null,null,"scripts/vMsim.R",null,"scripts/vMsim.R",null,"scripts/vMsim.R","scripts/vMsim.R",null,"scripts/vMsim.R",null,"scripts/vMsim.R",null,"scripts/vMsim.R",null,"scripts/vMsim.R",null,"scripts/vMsim.R",null,"scripts/vMsim.R",null,"scripts/vMsim.R",null,"scripts/vMsim.R",null,"scripts/vMsim.R",null,"scripts/vMsim.R",null,"scripts/vMsim.R",null]},"interval":10,"files":[{"filename":"scripts/vMsim.R","content":"von_mises_loop <- function(n, kappa) {\n  y <- numeric(n)\n  for (i in 1:n) {\n    reject <- TRUE\n    while (reject) {\n      y0 <- runif(1, - pi, pi)\n      u <- runif(1)\n      reject <- u > exp(kappa * (cos(y0) - 1))\n    }\n    y[i] <- y0\n  }\n  y\n}","normpath":"/Users/xqz683/sync/Books/CSwR/scripts/vMsim.R"}],"prof_output":"/var/folders/66/tltr1k410b1f6l8k6kdbq11w0000gn/T//RtmpuaOdIZ/filec60e77acb4a1.prof","highlight":{"output":["^output\\$"],"gc":["^<GC>$"],"stacktrace":["^\\.\\.stacktraceo(n|ff)\\.\\.$"]},"split":"h"}},"evals":[],"jsHooks":[]}</script>
+<script type="application/htmlwidget-sizing" data-for="htmlwidget-50484b593182fa892323">{"viewer":{"width":450,"height":350,"padding":0,"fill":true},"browser":{"width":960,"height":500,"padding":0,"fill":true}}</script>
 </body>
 </html>
